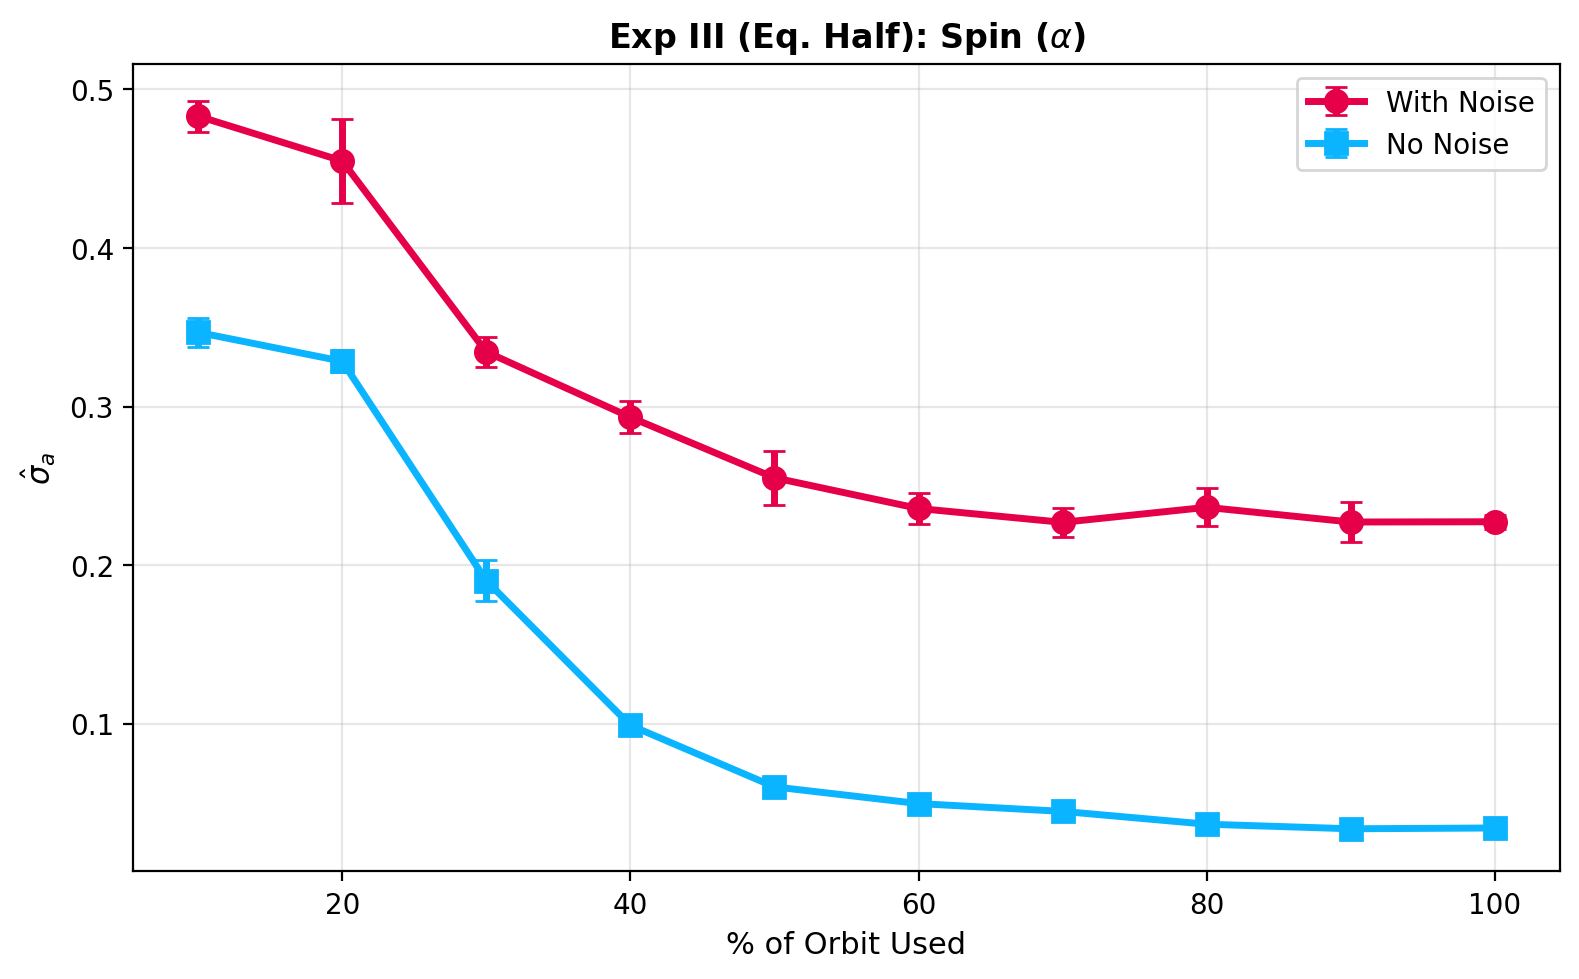
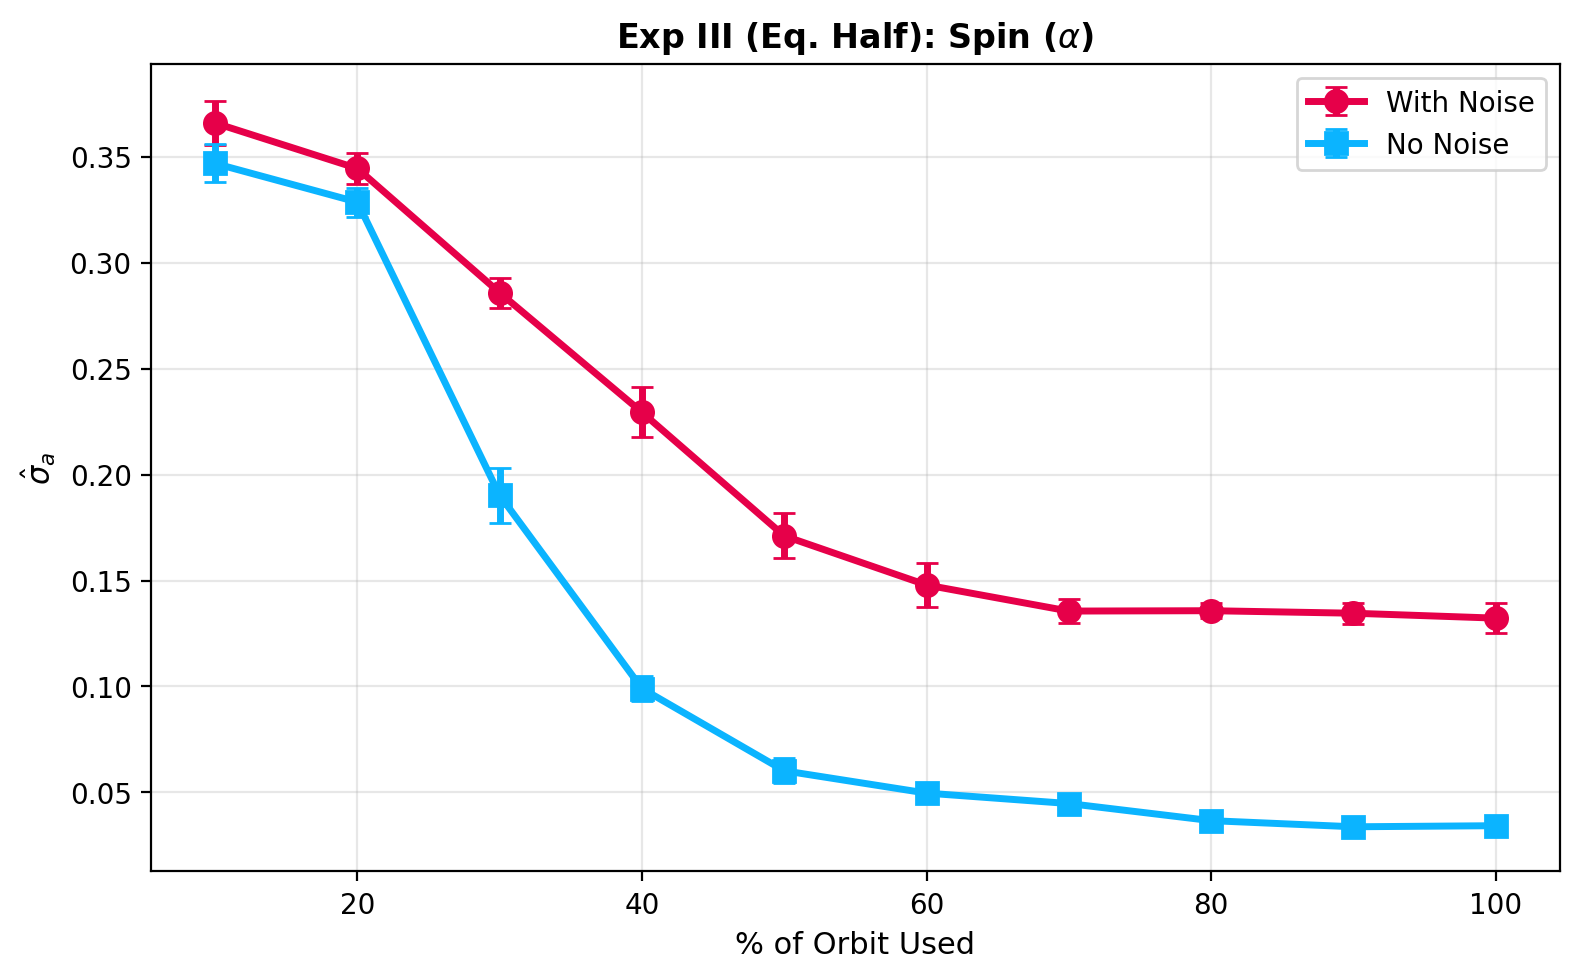
New fixed plots and code

diff --git a/experiments/experiment_5_noneq_half/train.py b/experiments/experiment_5_noneq_half/train.py
@@ -34,7 +34,6 @@ def build_features_partial_orbit_noneq(df, target_name, target_column, num_sampl
     targets_list = []
     
     n_windows = max(1, 11 - num_samples)
-    use_all_windows = (num_samples == 2)
     
     for _, row in tqdm(
         df.iterrows(),
@@ -53,12 +52,12 @@ def build_features_partial_orbit_noneq(df, target_name, target_column, num_sampl
         elif target_name == 'z':
             target_val = row['r'] * np.sin(np.deg2rad(row['theta']))
         
-        starts = range(n_windows) if use_all_windows else [np.random.randint(0, n_windows)]
-        for start_idx in starts:
-            samples_subset = dpa_samples[start_idx:start_idx+num_samples]
-            feature_row = np.concatenate(([row['r'], row['Period']], samples_subset))
-            features_list.append(feature_row)
-            targets_list.append(target_val)
+        # Consistently grab just ONE random window per row
+        start_idx = np.random.randint(0, n_windows)
+        samples_subset = dpa_samples[start_idx:start_idx+num_samples]
+        feature_row = np.concatenate(([row['r'], row['Period']], samples_subset))
+        features_list.append(feature_row)
+        targets_list.append(target_val)
     
     features = np.array(features_list, dtype=np.float32)
     targets = np.array(targets_list, dtype=np.float32)
@@ -124,20 +123,14 @@ def main():
             print("\n*** Running σ vs % orbit inclusion sweep ***")
             sweep_results = []
             
-            SEEDS_20PCT = list(range(42, 62))
-            
             for num_samples in config['sweep']['num_samples_range']:
                 percent = num_samples * 10
                 print(f"\n--- {percent}% orbit ({num_samples} samples) ---")
                 
-                seeds = SEEDS_20PCT if percent == 20 else config['training']['seeds']
-                if percent == 20:
-                    print(f"  Using 20 runs for reduced variance at 20% orbit", flush=True)
-                
                 seed_metrics = []
                 
                 for seed in tqdm(
-                    seeds,
+                    config['training']['seeds'],
                     desc=f"{target_name}: seeds (sweep, {percent}%)",
                     leave=False,
                 ):

diff --git a/src/utils/noise.py b/src/utils/noise.py
@@ -22,30 +22,27 @@ def rbf_kernel(t1: np.ndarray, t2: np.ndarray, sigma: float, length_scale: float
 
 
 def sample_gp_noise(time_points: np.ndarray, sigma: float, length_scale: float) -> np.ndarray:
-    """Sample smooth noise from a Gaussian Process with RBF kernel, rescaled to match target sigma.
-    
+    """Sample smooth noise from a Gaussian Process with RBF kernel.
+
+    The RBF kernel is parameterised so that K[i,i] = sigma^2, guaranteeing
+    that every time point has the correct marginal std dev (sigma) regardless
+    of how many points are sampled.  No empirical rescaling is applied because
+    it is both unnecessary and numerically unstable for small k (e.g. k=2).
+
     Args:
         time_points: Array of time points (e.g., [0.1, 0.2, ..., 1.0])
-        sigma: Target std dev of the noise
+        sigma: Target std dev of the noise at each time point
         length_scale: Smoothness parameter (larger = smoother)
-    
+
     Returns:
-        Array of correlated noise values with empirical std dev matching sigma
+        Array of correlated noise values; each element has marginal std = sigma
     """
     K = rbf_kernel(time_points, time_points, sigma, length_scale)
-    
+
     # Add small jitter for numerical stability
     K += 1e-8 * np.eye(len(time_points))
-    
-    # Sample from multivariate normal with zero mean and covariance K
-    noise = np.random.multivariate_normal(np.zeros(len(time_points)), K)
-    
-    # Rescale to ensure empirical std matches target sigma
-    empirical_std = np.std(noise, ddof=1) if len(noise) > 1 else 1.0
-    if empirical_std > 1e-10:
-        noise = noise * (sigma / empirical_std)
-    
-    return noise
+
+    return np.random.multivariate_normal(np.zeros(len(time_points)), K)
 
 
 def add_noise(

diff --git a/experiments/experiment_3_eq_half/train.py b/experiments/experiment_3_eq_half/train.py
@@ -35,10 +35,7 @@ def build_features_partial_orbit(df, target_name, target_column, num_samples, co
     for _, row in df.iterrows():
         dpa_samples = row[dpa_cols].to_numpy()
         
-        if num_samples == 2:
-            start_indices = list(range(n_windows))
-        else:
-            start_indices = [np.random.randint(0, n_windows)]
+        start_indices = [np.random.randint(0, n_windows)]
         
         target_val = row['a'] if target_name == 'spin' else (np.deg2rad(row['i']) if convert_to_radians else row['i'])
         

diff --git a/CLAUDE.md b/CLAUDE.md
@@ -1,0 +1,142 @@
+# CLAUDE.md
+
+This file provides guidance to Claude Code (claude.ai/code) when working with code in this repository.
+
+## Repository Overview
+
+This repo contains a machine learning framework for predicting supermassive black hole (SMBH) parameters (spin α, inclination i, theta θ) from hotspot observables (radius r, period T, differential phase angle ΔPA(t)).
+
+There is one directory:
+- **`smbh_hotspots_repository/`** — The clean, structured ML framework (primary working directory)
+
+## Installation
+
+```bash
+cd /scratch/ralbe/meniar_and_django/smbh_hotspots_repository
+pip install -r requirements.txt
+```
+
+## Running Experiments
+
+All commands should be run from the repo root (`smbh_hotspots_repository/`), not from the experiment directory. Each experiment has a `train.py` and an optional config argument:
+
+```bash
+# Run with default config
+cd experiments/experiment_1_eq_avg && python train.py
+
+# Run with a specific config (e.g., no noise)
+cd experiments/experiment_1_eq_avg && python train.py config_no_noise.yaml
+
+# Submit to SLURM
+cd experiments/experiment_1_eq_avg && sbatch submit.sh
+
+# Submit all experiments at once
+cd experiments && bash submit_all.sh
+```
+
+Monitor SLURM jobs:
+```bash
+squeue -u $USER
+tail -f results/logs/exp1_eq_avg_*.out
+```
+
+## Data Preparation
+
+Raw `.dat` simulation files must be placed before running preprocessing:
+- Equatorial (i=0): `data/raw/meniar_files/`
+- Equatorial dense: `data/raw/sepray_t_files/`
+- Non-equatorial: `data/raw/non_eq/dpa_neq/`
+
+```bash
+cd src/preprocessing
+python prepare_dataset_i0.py          # → data/processed/dpa_dataset_i0.csv (Exp I)
+python prepare_dataset_ultradense.py  # → data/processed/dpa_dataset_ultradense.csv (Exp II-III)
+python prepare_dataset_noneq.py       # → data/processed/dpa_dataset_noneq.csv (Exp IV-V)
+```
+
+## Architecture
+
+### Core modules (`src/`)
+
+- **`models/regression_head.py`** — `RegressionHead`: MLP with configurable residual blocks, BatchNorm, Dropout. Input: `2 + k` features (r, T, k DPA samples). Output: 1 scalar.
+- **`training/data_loader.py`** — `build_features_targets_avg()` (Exp I) and `build_features_targets_timeseries()` (Exp II-V); `prepare_dataloaders()` handles train/val/test splitting, noise injection, and StandardScaler fitting.
+- **`training/trainer.py`** — `Trainer` class: Adam optimizer, MSE loss, early stopping, checkpoint saving. Checkpoints include scaler parameters for deployment.
+- **`training/evaluation.py`** — Metrics (MAE, RMSE, R², error μ/σ), plotting (error histograms, pred-vs-actual), result aggregation and CSV export.
+- **`utils/noise.py`** — `add_noise()`: Gaussian noise on r, T, DPA features. Supports independent Gaussian (default) or GP-based smooth noise via `dpa_length_scale > 0`.
+- **`utils/config.py`** — `load_config()` and `get_repo_root()` utilities.
+- **`postprocessing/`** — Scripts for corner plots and aggregated experiment result analysis.
+
+### Experiment structure
+
+Each experiment in `experiments/experiment_N_*/` contains:
+- `config.yaml` — All hyperparameters (model, training, noise, split, sweep)
+- `config_no_noise.yaml` — Same config with `noise.enabled: false`
+- `train.py` — Self-contained training script (adds `repo_root` to `sys.path`)
+- `submit.sh` / `submit_no_noise.sh` — SLURM submission scripts
+
+### Experiment types
+
+| Exp | Description | Dataset | Input features | Targets |
+|-----|-------------|---------|----------------|---------|
+| I | Equatorial averaged ΔPA | `dpa_dataset_i0.csv` | r, T, ΔPA_avg | α, i |
+| II | Equatorial full orbit | `dpa_dataset_ultradense.csv` | r, T, ΔPA(t)×10 | α, i |
+| III | Equatorial partial orbit + sweep | `dpa_dataset_ultradense.csv` | r, T, ΔPA(t)×k | α, i |
+| IV | Non-equatorial full orbit | `dpa_dataset_noneq.csv` | r, T, ΔPA(t)×10 | α, i, θ, z |
+| V | Non-equatorial partial orbit + sweep | `dpa_dataset_noneq.csv` | r, T, ΔPA(t)×k | α, i, θ, z |
+
+### Data flow
+
+1. Raw `.dat` files → preprocessing scripts → CSVs in `data/processed/`
+2. CSV → `build_features_targets_*()` → numpy arrays
+3. Arrays → `prepare_dataloaders()` → noise injection → StandardScaler normalization → DataLoaders
+4. DataLoaders → `Trainer.train()` → best model (by val loss, early stopping)
+5. Best model → `evaluate_model()` → metrics + plots saved to `results/`
+
+### Noise injection
+
+Noise is injected **before** z-normalization. Default sigmas: r=0.1M, T=2 min, ΔPA=5°. Fresh noise is sampled each time `prepare_dataloaders()` is called (i.e., per seed).
+
+### Sweep mode (Experiments III & V)
+
+When `sweep.enabled: true` in config, trains 50 models (10 orbit coverage levels × 5 seeds) and generates σ-vs-orbit-coverage plots. This is compute-intensive (~24-36h on SLURM).
+
+### Output locations
+
+```
+results/
+├── checkpoints/experiment_N/{target}/model_seed{seed}.pth
+├── figures/experiment_N/{target}/error_hist_seed{seed}.png
+├── figures/experiment_N/{target}/pred_vs_actual_seed{seed}.png
+├── logs/                          # SLURM stdout/stderr
+└── metrics/experiment_N/
+    ├── {target}_summary.csv       # One row per seed
+    ├── {target}_aggregated.csv    # μ±σ across seeds
+    └── {target}_sweep.csv         # Sweep mode only
+```
+
+### WandB
+
+Enabled by default (`use_wandb: true` in config). Set to `false` to disable, or ensure `wandb login` has been run first.
+
+## Key Configuration Options
+
+```yaml
+model:
+  hidden_dims: [256, 256]   # Layer widths
+  num_blocks: 2             # Residual blocks
+  dropout: 0.1
+
+training:
+  seeds: [42, 43, 44, 45, 46]   # 5 seeds → μ±σ statistics
+  early_stop_patience: 40
+  use_wandb: true
+
+noise:
+  enabled: true
+  sigma_r: 0.1      # Units of M
+  sigma_T: 2.0      # Minutes
+  sigma_DPA: 5.0    # Degrees
+
+sweep:
+  enabled: false    # Set true for σ vs orbit coverage analysis
+```
